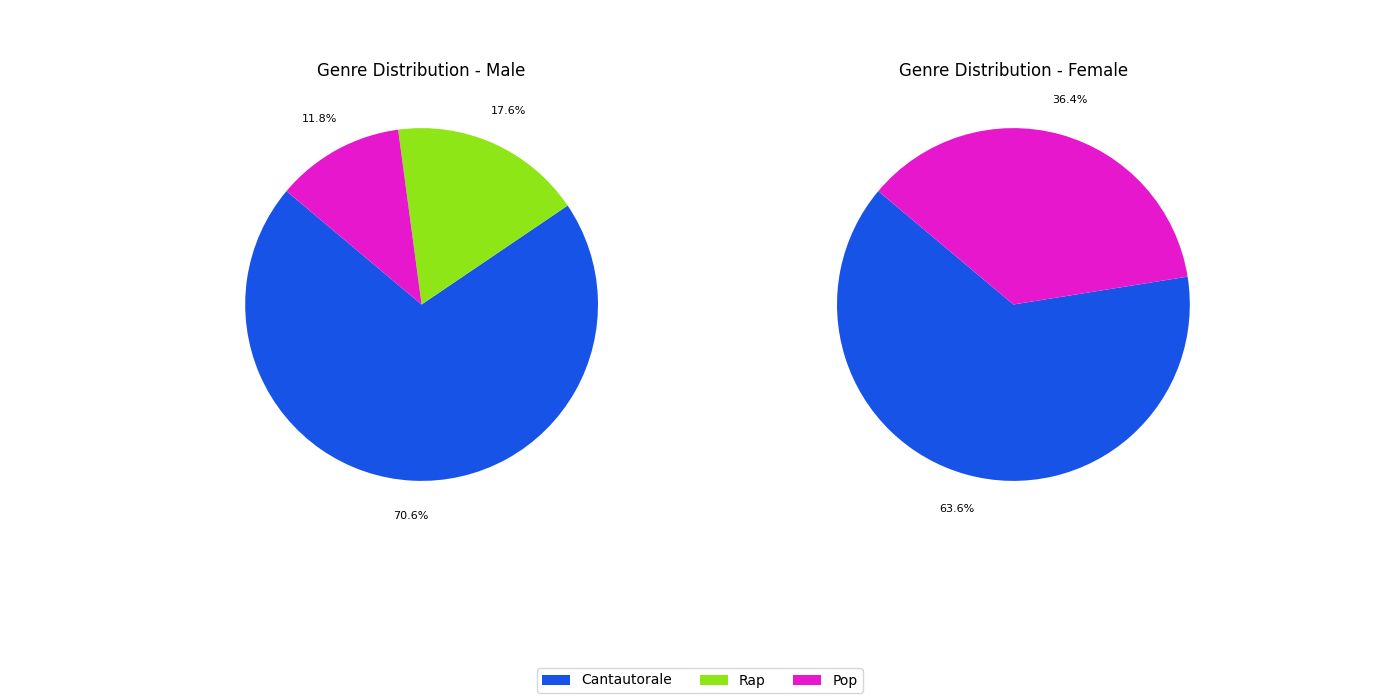
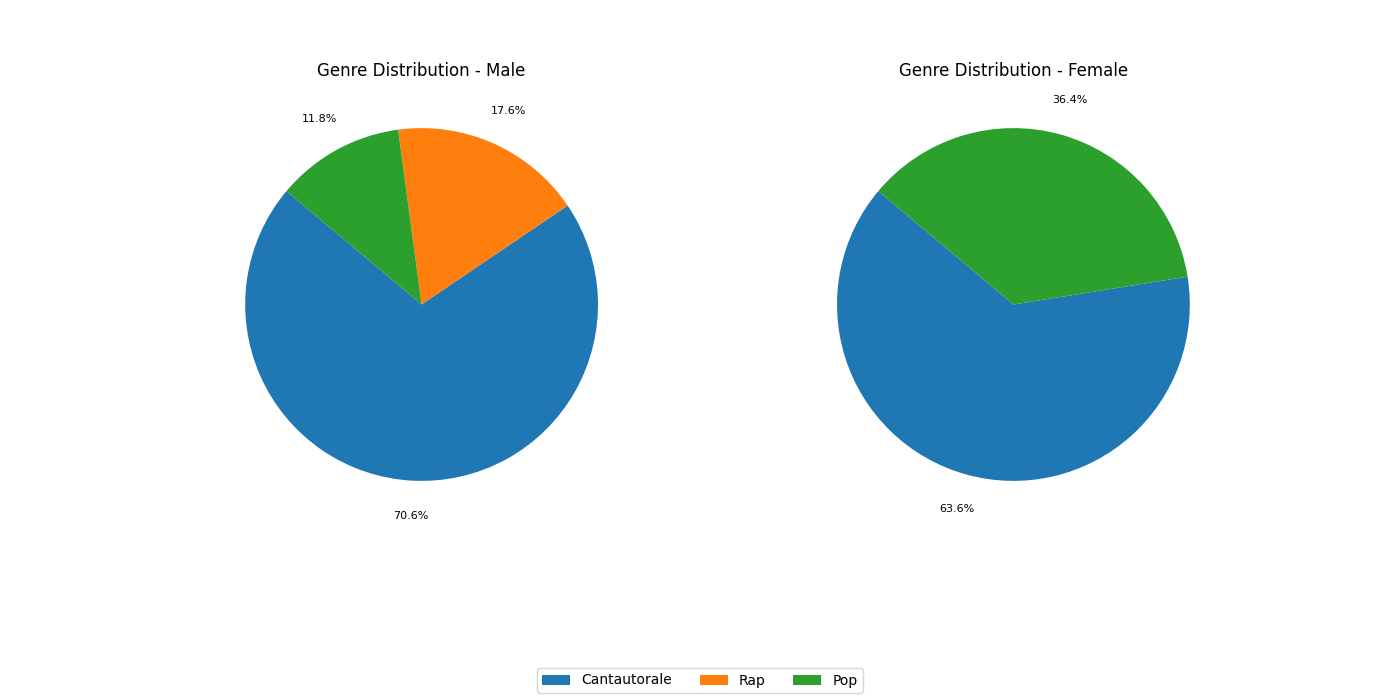
improved coloring

diff --git a/plot.py b/plot.py
@@ -76,15 +76,16 @@ def generate_table(count, percentage, columns, include_sentiments=False):
 
 
 def get_distinct_colors(n):
-    colors = []
-    golden_ratio_conjugate = 0.618033988749895
-    hue = 0
-    for i in range(n):
-        hue += golden_ratio_conjugate
-        hue %= 1
-        rgb = mcolors.hsv_to_rgb([hue, 0.9, 0.9])  # Higher saturation and value for more vibrant colors
-        colors.append(mcolors.rgb2hex(rgb))
-    return colors
+    base_colors = list(mcolors.TABLEAU_COLORS.values())
+    if n <= len(base_colors):
+        return base_colors[:n]
+
+    # Generate additional colors if needed
+    additional_colors = []
+    for i in range(n - len(base_colors)):
+        additional_colors.append(mcolors.hsv_to_rgb([i / (n - len(base_colors)), 0.5, 0.5]))
+
+    return base_colors + additional_colors
 
 def autopct_generator(limit):
     def inner_autopct(pct):
